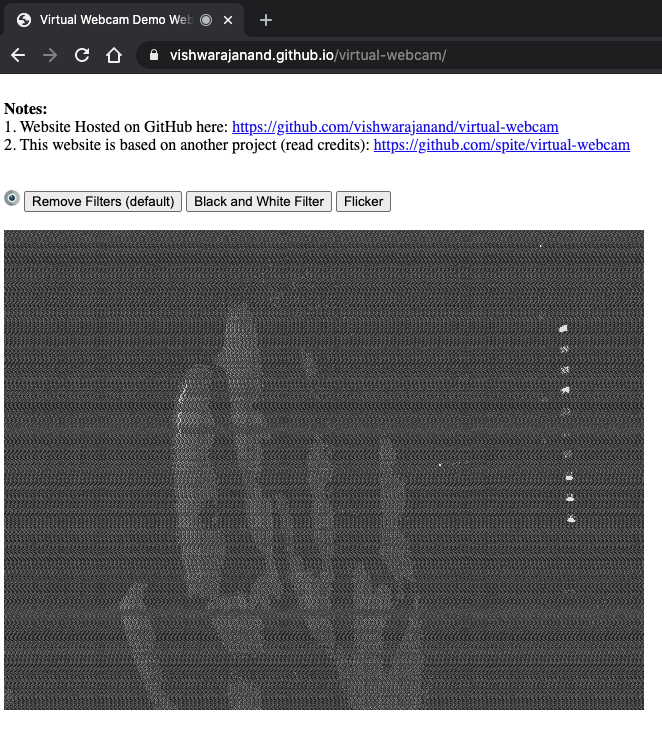
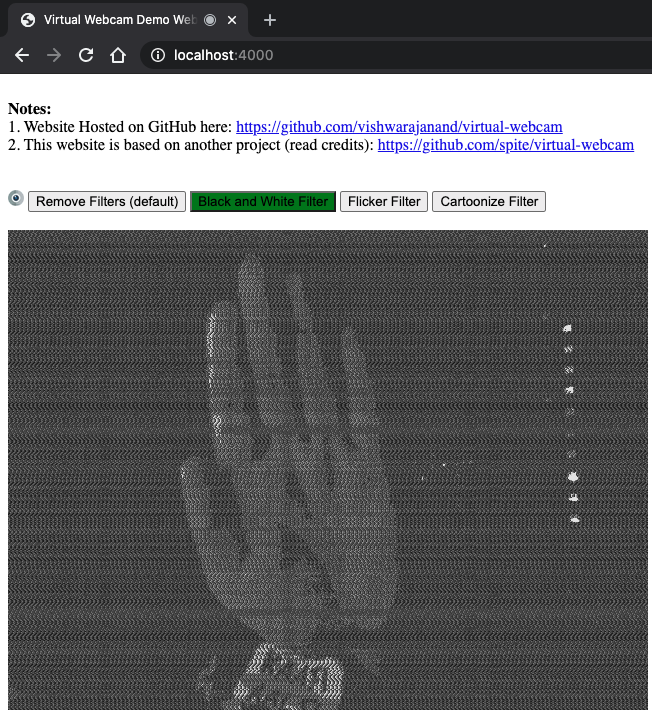
Added new UI images

diff --git a/README.md b/README.md
@@ -29,6 +29,8 @@ NOTE: You can use it as a regular library, check out index.html.
 ## Flicker filter
 ![Preview](https://github.com/vishwarajanand/virtual-webcam/blob/master/demos/flicker.png?raw=true "Preview")
 
+## Cartoonize filter
+![Preview](https://github.com/vishwarajanand/virtual-webcam/blob/master/demos/cartoonize.png?raw=true "Preview")
 
 ## Details from previous ReadMe
 
